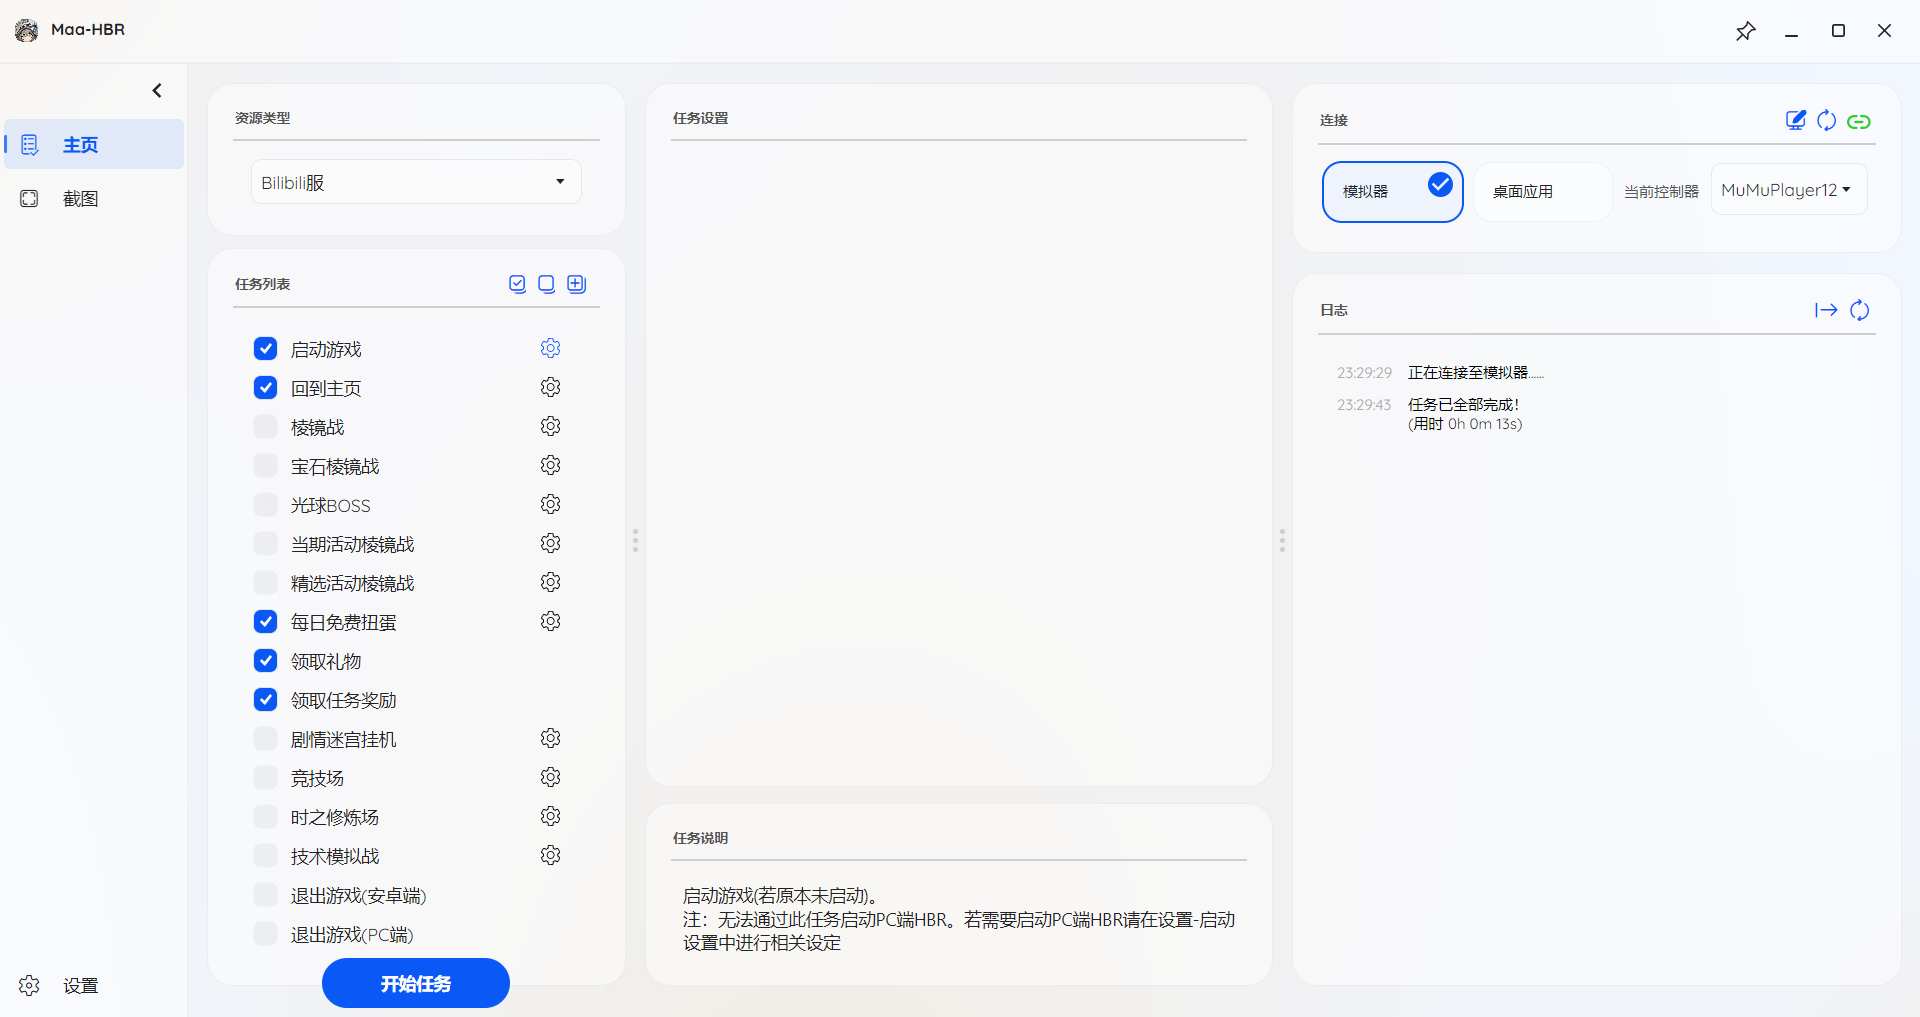
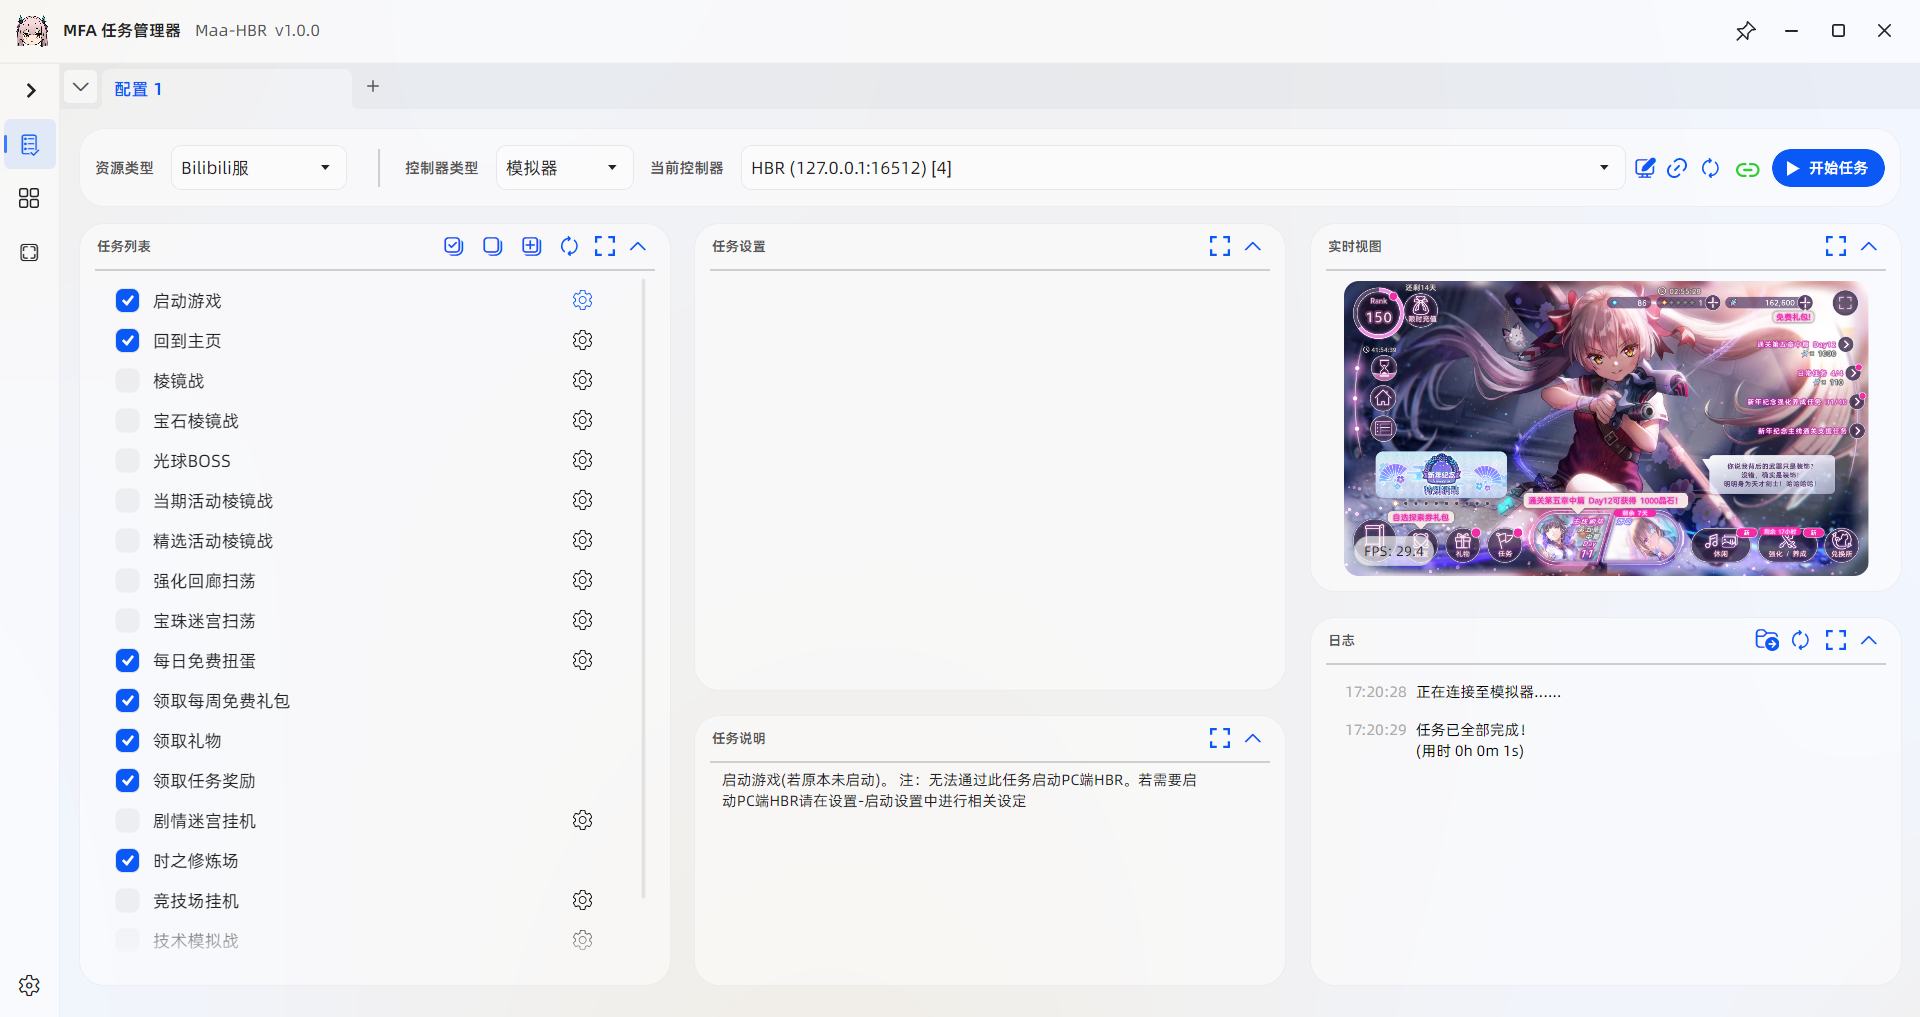
docs: 更新公告 chore: 更新icon和GUI截图

diff --git a/assets/resource/Announcement/Announcement.md b/assets/resource/Announcement/Announcement.md
@@ -1,5 +1,7 @@
-欢迎使用Maa-HBR，本软件完全开源且免费，如果您以任何渠道付费获取本软件，请立刻退款并举报。有任何使用问题请前往项目主页反馈。
+欢迎使用Maa-HBR！
+
+本软件完全开源且免费，如果您以任何渠道付费获取本软件，请立刻退款并举报。有任何使用问题请前往项目[Issues](https://github.com/KarylDAZE/Maa-HBR/issues)反馈。
 
 若使用PC端，需要保证游戏为全屏且屏幕比例为16:9，任务运行过程中不能主动操控电脑。捕获方式和触控模式分别需要为DXGI_DesktopDup和Seize。若不希望脚本抢鼠标或屏幕比例不为16:9，可参考[远程本地多用户桌面方案](https://www.bilibili.com/opus/805995851989123075)。并需要在开始任务后手动切换到游戏界面(即HeavenBurnsRed.exe)。
 
-当前版本已知竞技场关卡选择存在bug，可能会选择错误的关卡，请等待后续更新修复。
+若您从v0.x.x版本更新到v1.x.x版本，强烈建议前往前往[Releases](https://github.com/KarylDAZE/Maa-HBR/releases)下载最新包以同时更新GUI。
